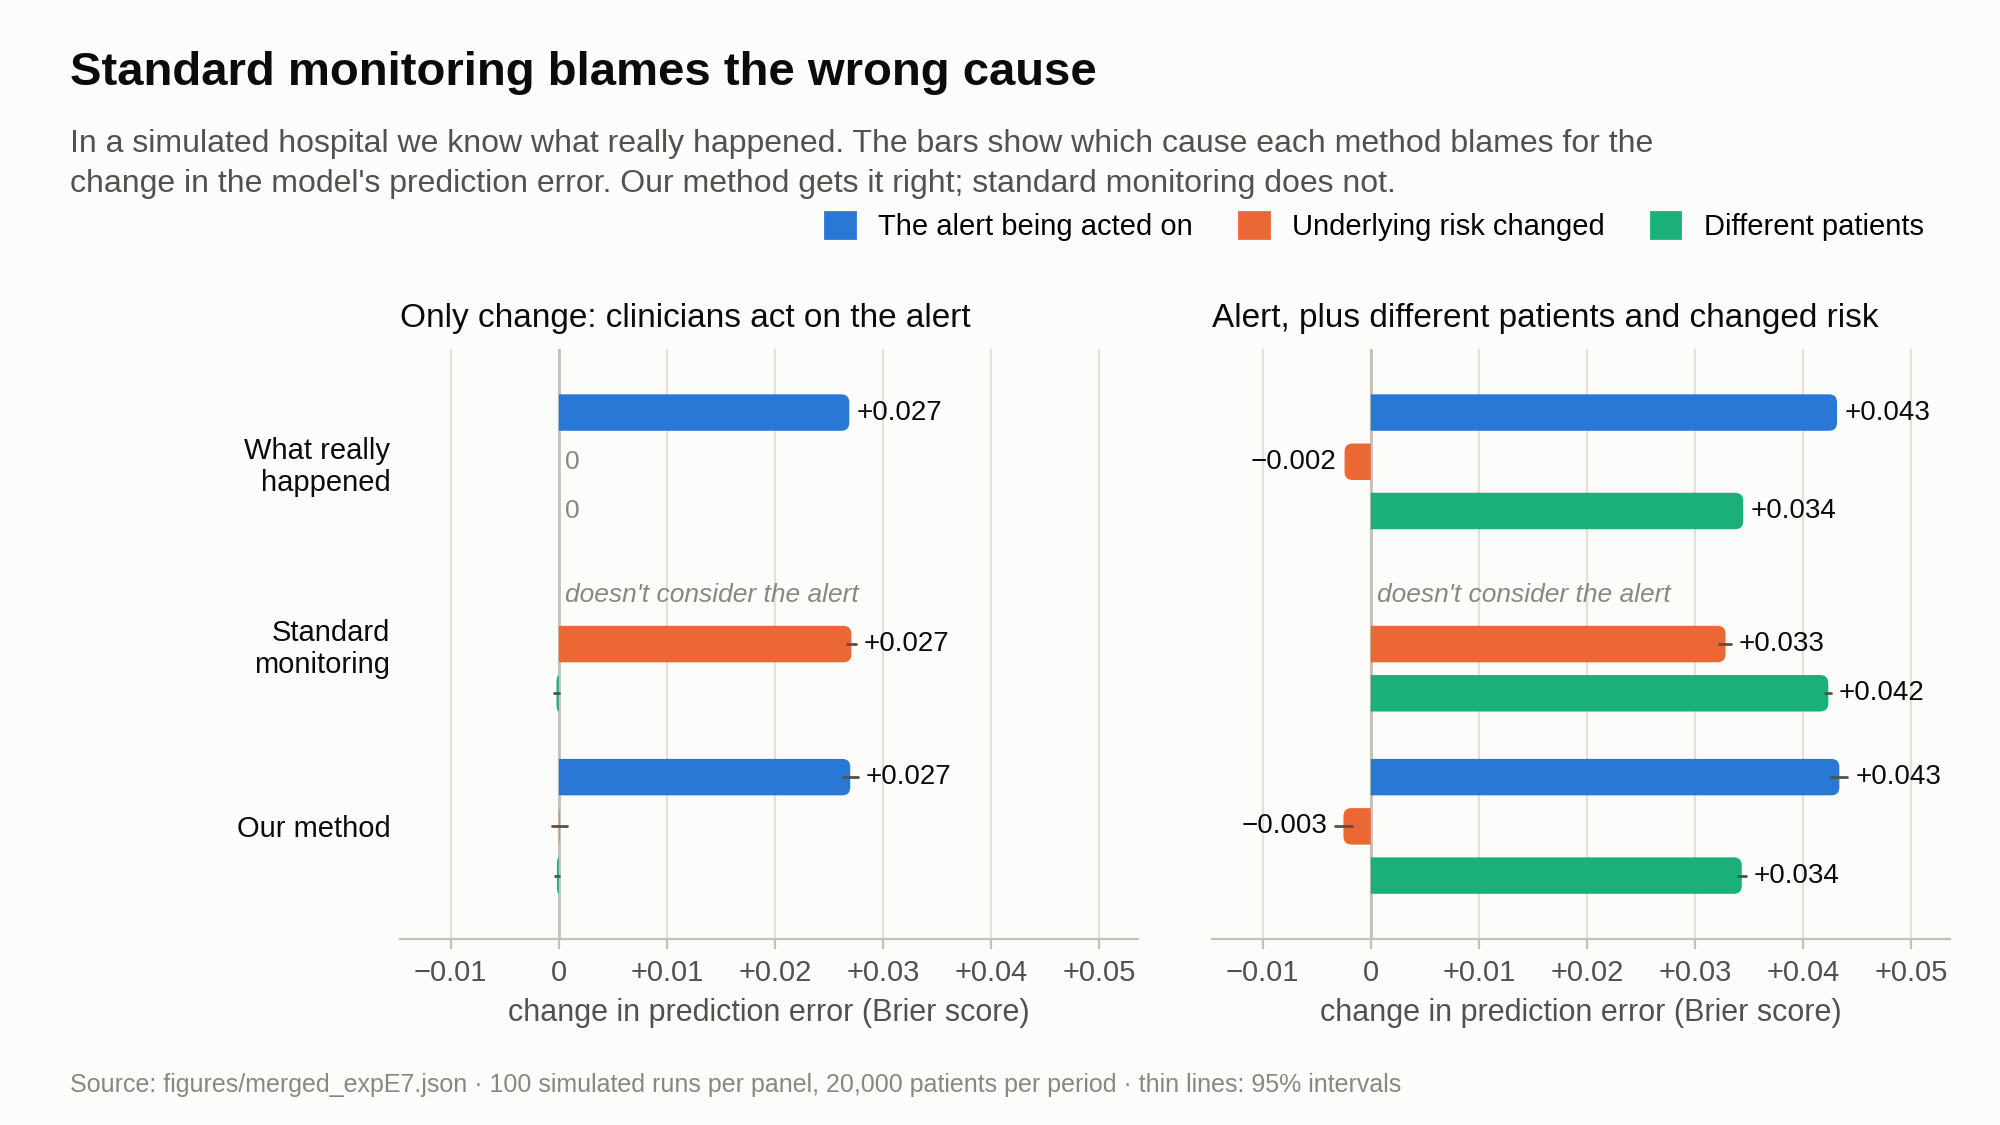
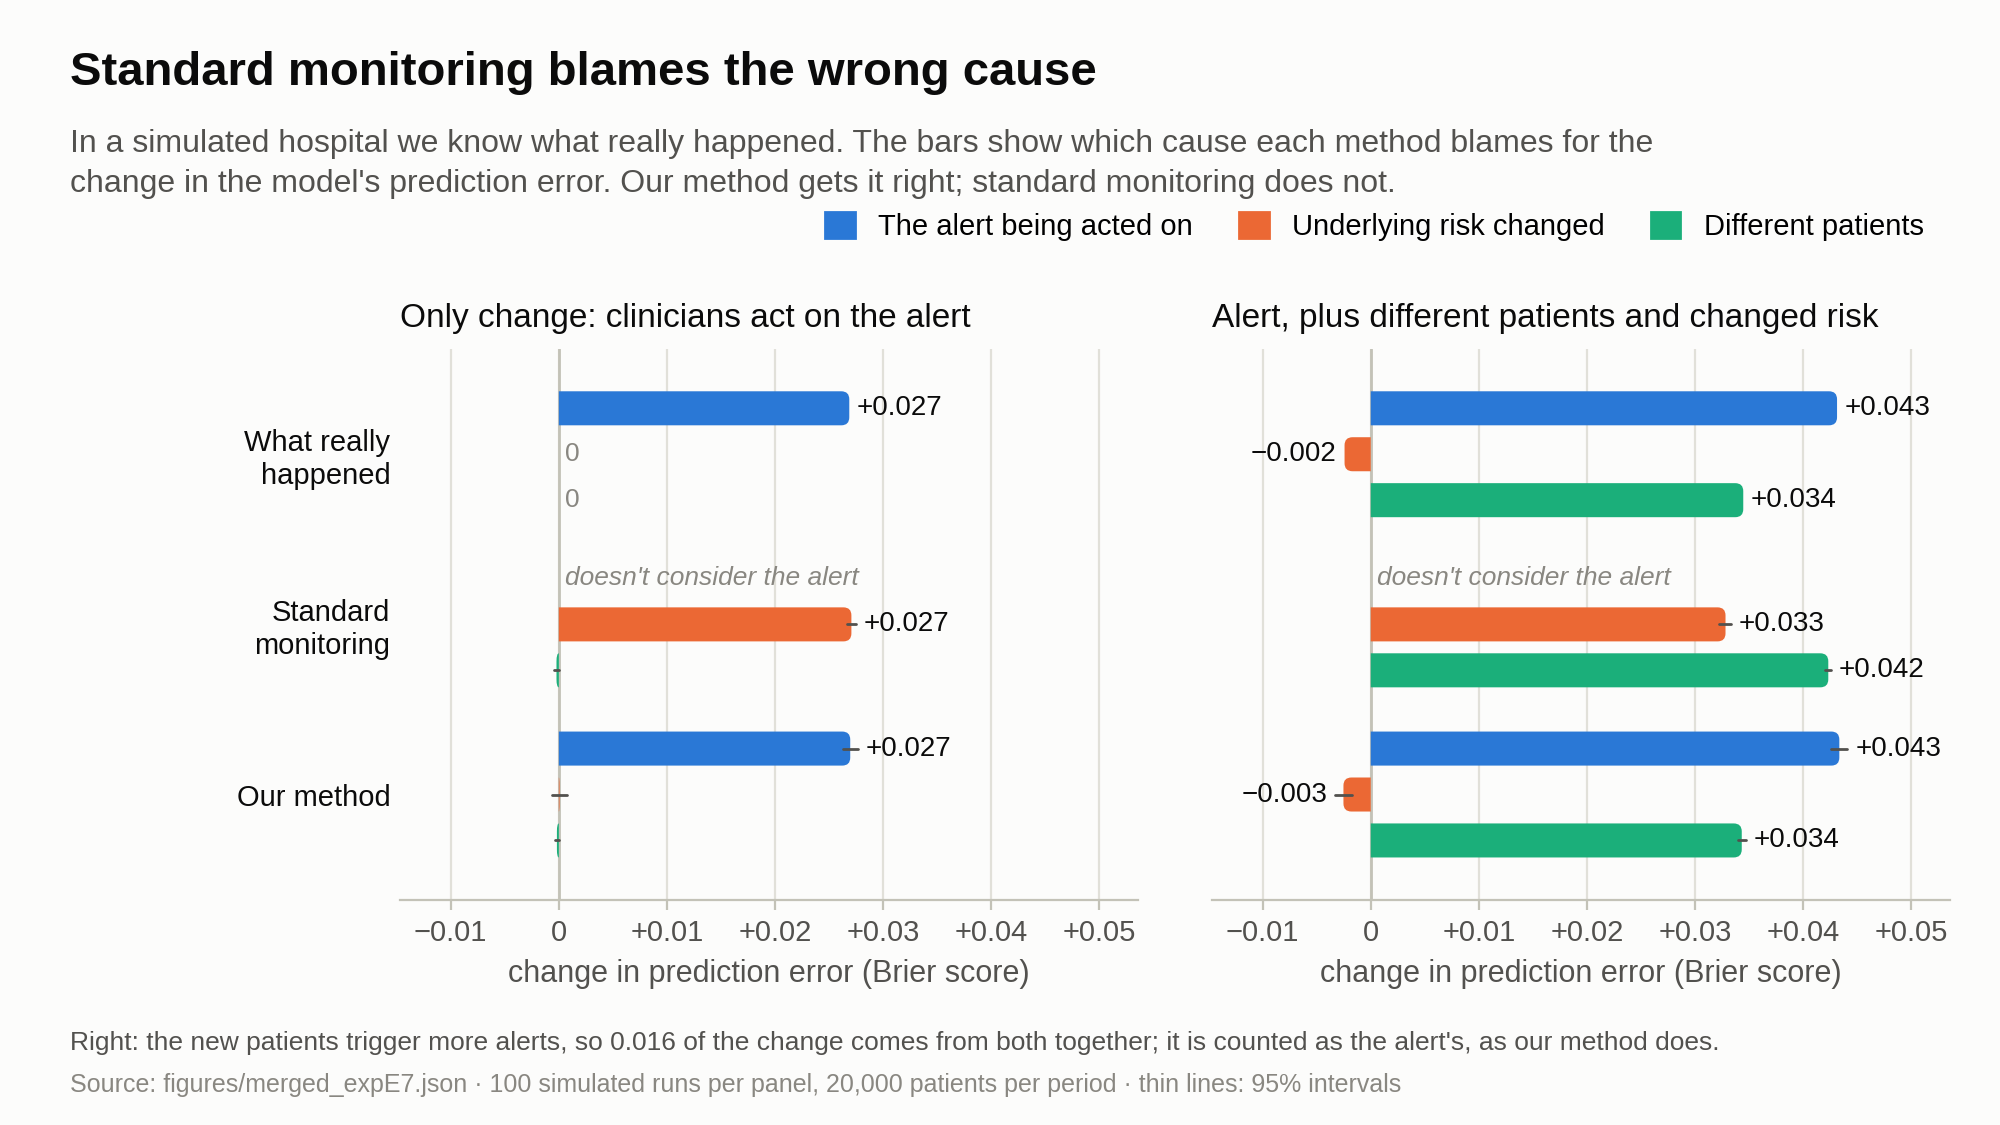
Status figures: fix three overstatements and note the overlap convention
Figure 1 claimed the validator checks every number in the draft (it checks
44 key numbers) and that all simulations use one setup (the stress tests
vary it). Figure 2's right panel now says the overlap between the new
patient mix and the alert is counted as the alert's, which is why the
monitor's patient-mix bar differs from the truth row. Figure 5's title now
names the question that matters (whether risk changed).

diff --git a/sim2/make_status_update.py b/sim2/make_status_update.py
@@ -215,7 +215,7 @@ def figure_workflow():
          tag="R1, R2")
     node(ax, 57, 23.6, 20, 7.4, "Figures and tables", ("rebuilt with one command,", "identical every time"),
          tag="R4")
-    node(ax, 57, 10.2, 20, 7.4, "Automatic checks", ("every number in the draft", "matches the saved results"))
+    node(ax, 57, 10.2, 20, 7.4, "Automatic checks", ("key numbers in the draft are", "checked against the results"))
     arrow(ax, (67, 37.0), (67, 31.1))
     arrow(ax, (67, 23.6), (67, 17.7))
 
@@ -240,8 +240,8 @@ def figure_workflow():
     ax.text(x0 + 1.2, y0 + 1.4, f"{todo} TODO notes left in the draft", fontsize=9.5, color=MUTED, va="center")
     arrow(ax, (77.0, 27.3), (79.9, 27.3))
     arrow(ax, (77.0, 13.9), (79.9, 13.9))
-    ax.text(97.5, 2.2, "All simulations use one hospital setup; with the public data, only the alert and its effect "
-                       "are simulated.", fontsize=9, color=MUTED, ha="right")
+    ax.text(97.5, 2.2, "The main simulations use one hospital setup (the stress tests vary it); with the public data, "
+                       "only the alert and its effect are simulated.", fontsize=9, color=MUTED, ha="right")
     save(fig, "01_workflow.png")
     CAPTIONS.append((
         "01_workflow.png",
@@ -254,14 +254,14 @@ COMPONENTS = (("The alert being acted on", BLUE), ("Underlying risk changed", OR
 METHODS = ("What really\nhappened", "Standard\nmonitoring", "Our method")
 
 
-def attribution_chart(name, panels, title, subtitle, source, xlabel, digits, label_min, tick_step):
+def attribution_chart(name, panels, title, subtitle, source, xlabel, digits, label_min, tick_step, note=None):
     """Horizontal grouped bars: one group per method, one bar per component, value at the tip.
 
     panels: (panel title, rows, errors); rows[method][component] is a value or None (no such
     term), errors[method][component] is a 95% interval or None.
     """
     fig, axes = plt.subplots(1, len(panels), figsize=FIGSIZE, sharey=True)
-    fig.subplots_adjust(left=0.2, right=0.975, top=0.69, bottom=0.165, wspace=0.1)
+    fig.subplots_adjust(left=0.2, right=0.975, top=0.69, bottom=0.2 if note else 0.165, wspace=0.1)
     ends = [0.0]
     for _, rows, errs in panels:
         for r, e in zip(rows, errs):
@@ -272,7 +272,7 @@ def attribution_chart(name, panels, title, subtitle, source, xlabel, digits, lab
     xlim = (lo - (0.24 if lo < -label_min / 2 else 0.03) * span, hi + (0.2 if hi > label_min / 2 else 0.12) * span)
     # notes at zero go on the side of the axis with more room
     side = 1 if hi >= -lo else -1
-    note = dict(va="center", ha="left" if side > 0 else "right", color=MUTED)
+    at_zero = dict(va="center", ha="left" if side > 0 else "right", color=MUTED)
     pitch, thick = 0.27, 0.2
     for ax, (ptitle, rows, errs) in zip(axes, panels):
         ax.set_xlim(*xlim)
@@ -287,7 +287,7 @@ def attribution_chart(name, panels, title, subtitle, source, xlabel, digits, lab
                 v, ci = row[k], err[k]
                 if v is None:
                     ax.text(0.012 * span * side, y, "doesn't consider the alert", fontsize=9.5, style="italic",
-                            **note)
+                            **at_zero)
                     continue
                 rounded_bar(ax, y, thick, v, color, horizontal=True)
                 if ci is not None:
@@ -297,7 +297,7 @@ def attribution_chart(name, panels, title, subtitle, source, xlabel, digits, lab
                     ax.text(tip + (0.015 if v > 0 else -0.015) * span, y, fmt(v, digits), va="center",
                             ha="left" if v > 0 else "right", fontsize=10, color=INK, zorder=5)
                 elif g == 0 and v == 0:
-                    ax.text(0.012 * span * side, y, "0", fontsize=9.5, **note)
+                    ax.text(0.012 * span * side, y, "0", fontsize=9.5, **at_zero)
         ax.set_title(ptitle, fontsize=12, color=INK, loc="left", pad=8)
         ax.set_xlabel(xlabel)
         ax.xaxis.set_major_locator(matplotlib.ticker.MultipleLocator(tick_step))
@@ -309,6 +309,8 @@ def attribution_chart(name, panels, title, subtitle, source, xlabel, digits, lab
     fig.legend(handles, [l for l, _ in COMPONENTS], loc="upper right", bbox_to_anchor=(0.975, 0.835),
                ncol=3, handlelength=1.0, handleheight=1.0, columnspacing=1.6)
     header(fig, title, subtitle, source)
+    if note:
+        fig.text(0.035, 0.062, note, fontsize=9.5, color=INK2, va="bottom")
     save(fig, name)
 
 
@@ -328,6 +330,9 @@ def figure_attribution():
         panels.append((ptitle, [truth, mon, pro], err))
         out[sc] = (truth, mon, pro)
     t3, m3, p3 = out["S3"]
+    # S4: the patient-mix shift moves more patients into the alert region; the policy contrast that the
+    # truth row and our method use gives that interaction to the alert (Shapley symmetry would halve it)
+    overlap = A["references"]["S4"]["I_Xpi"]["value"]
     assert t3[0] > 0 and m3[1] > 0.9 * t3[0] and p3[0] > 0.9 * t3[0], "the captions describe this pattern"
     attribution_chart(
         "02_attribution.png", panels,
@@ -336,7 +341,9 @@ def figure_attribution():
         "\nchange in the model's prediction error. Our method gets it right; standard monitoring does not.",
         f"Source: figures/merged_expE7.json · {reps} simulated runs per panel, {E7['parameters']['n']:,} patients "
         "per period · thin lines: 95% intervals",
-        "change in prediction error (Brier score)", 3, 0.002, 0.01)
+        "change in prediction error (Brier score)", 3, 0.002, 0.01,
+        note=f"Right: the new patients trigger more alerts, so {fmt(overlap, 3, False)} of the change comes from "
+             "both together; it is counted as the alert's, as our method does.")
     CAPTIONS.append((
         "02_attribution.png",
         "In a simulated hospital where the only change is clinicians acting on the alert, standard monitoring "
@@ -521,7 +528,7 @@ def figure_refit_rules():
     ax.spines["left"].set_visible(False)
     baseline(ax, horizontal=True)
     ax.set_xlabel("extra bad outcomes per 100 patients, worst case (lower is better)")
-    header(fig, "Knowing the real cause tells you when to retrain",
+    header(fig, "Knowing whether risk really changed tells you when to retrain",
            "After a monitoring period, should the hospital keep the model or retrain it? Each rule makes that call."
            "\nScore: extra bad outcomes compared with the better choice, worst case over four simulated situations.",
            f"Source: figures/merged_expE1.json · {E1['parameters']['reps']} simulated runs per situation, alert "
